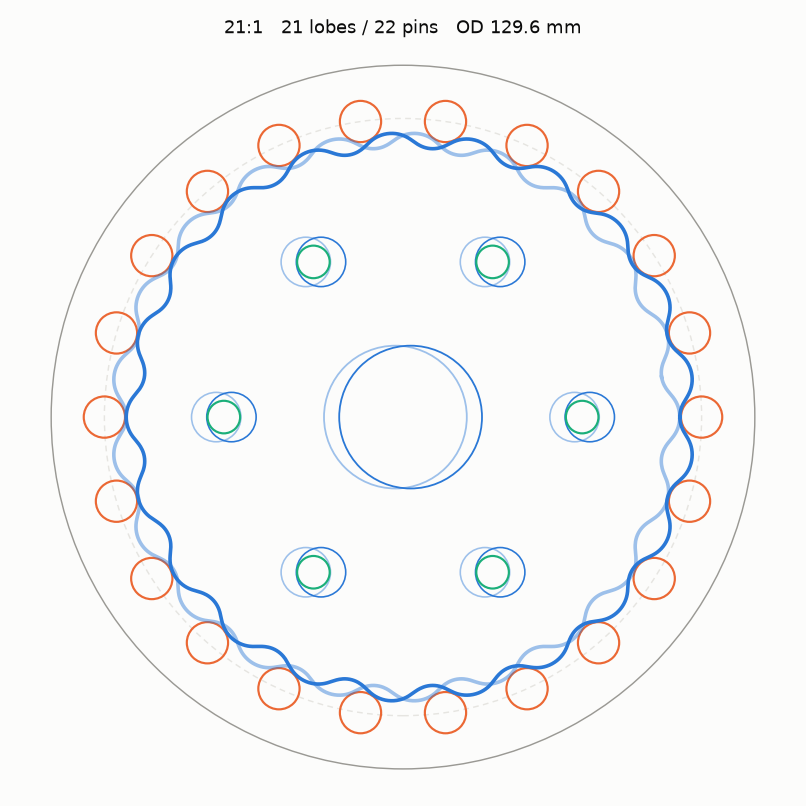
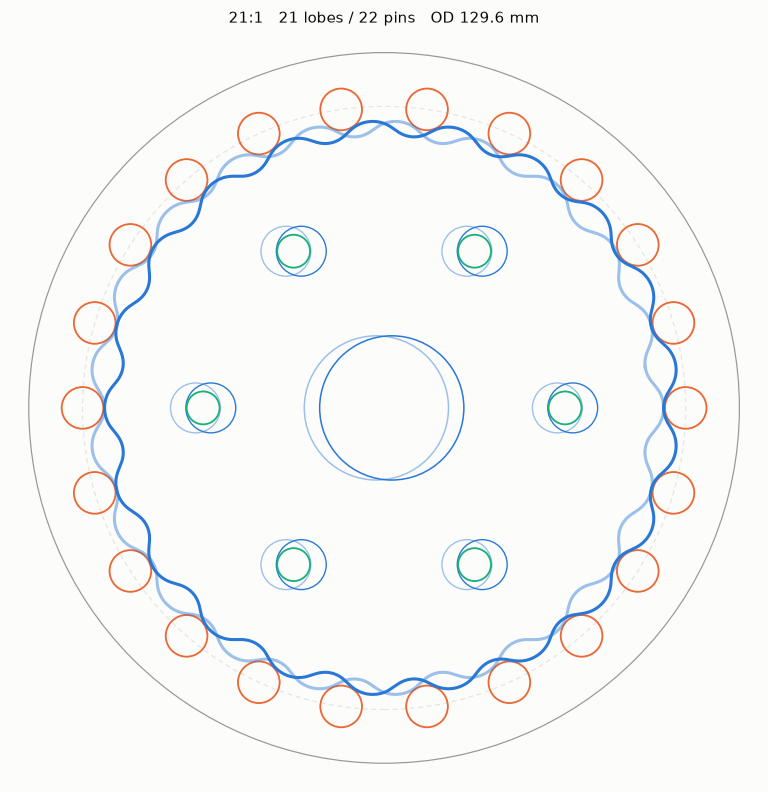
Add CI, reproducible README figures, and honest sweep axes
CI runs the suite on Linux and Windows across the supported Python range, and
separately exports a full bundle and runs a design search from the command
line - the tests cover the pieces, that job proves the whole thing still runs
end to end.

The README figures are now generated by docs/make_figures.py out of the same
plotting code the app and the PDF report use, so a figure in the README cannot
drift away from what the app actually draws.

Building the trade-study figure exposed a real fault in it: matplotlib fills
the axis with whatever range it is given, so lost motion varying by 0.09% over
the sweep arrived looking like a decisive downward trend. On a chart whose only
job is reading off trade-offs that is the chart stating something untrue.
Nearly-flat positive series are now anchored at zero, which is the discipline
force_figure already applied to ring pin load and documented the reason for.

diff --git a/tests/test_plots.py b/tests/test_plots.py
@@ -1,0 +1,96 @@
+"""Figures.
+
+Mostly about honesty rather than appearance: a chart that magnifies a tenth of
+a percent into a decisive-looking trend is telling the reader something untrue,
+and on a trade-study chart that is the whole point of the chart.
+"""
+from __future__ import annotations
+
+import matplotlib
+
+matplotlib.use("Agg")
+
+import numpy as np                                   # noqa: E402
+import pytest                                        # noqa: E402
+from matplotlib.figure import Figure                 # noqa: E402
+
+from cycloidgen.core.spec import preset               # noqa: E402
+from cycloidgen.design.sweep import sweep_parameter   # noqa: E402
+from cycloidgen.report import plots                   # noqa: E402
+
+
+def test_a_nearly_flat_series_is_anchored_at_zero():
+    fig = Figure()
+    ax = fig.add_subplot(111)
+    y = np.array([10.206, 10.210, 10.215])            # a 0.09 % span
+    ax.plot([1, 2, 3], y)
+    plots._anchor_axis(ax, y)
+    assert ax.get_ylim()[0] == 0.0
+
+
+def test_a_series_that_really_moves_keeps_its_own_range():
+    fig = Figure()
+    ax = fig.add_subplot(111)
+    y = np.array([10.0, 60.0, 115.0])
+    ax.plot([1, 2, 3], y)
+    plots._anchor_axis(ax, y)
+    assert ax.get_ylim()[0] > 0.0
+
+
+def test_a_series_crossing_zero_is_left_alone():
+    """Anchoring assumes a magnitude; a signed quantity is not one."""
+    fig = Figure()
+    ax = fig.add_subplot(111)
+    y = np.array([-5.0, 0.0, 5.0])
+    ax.plot([1, 2, 3], y)
+    before = ax.get_ylim()
+    plots._anchor_axis(ax, y)
+    assert ax.get_ylim() == before
+
+
+def test_the_force_figure_y_axis_starts_at_zero():
+    """Ring pin load varies by a fraction of a percent over the mesh cycle."""
+    fig = plots.force_figure(preset(15), Figure(), steps=24)
+    assert fig.axes[0].get_ylim()[0] == 0.0
+
+
+def test_sweep_figure_draws_four_panels_and_marks_the_current_design():
+    spec = preset(15)
+    result = sweep_parameter(spec, "pin_radius", np.linspace(3.0, 5.0, 5))
+    fig = plots.sweep_figure(result, Figure())
+    assert len(fig.axes) == 4
+    for ax in fig.axes:
+        assert ax.get_xlabel()
+        assert ax.get_ylabel()
+
+
+def test_sweep_figure_survives_a_range_where_everything_is_blocked():
+    """The shaded-blocked path must not depend on there being good points."""
+    result = sweep_parameter(preset(15), "pin_radius", [40.0, 60.0])
+    assert all(not p.ok for p in result.points)
+    fig = plots.sweep_figure(result, Figure())
+    assert len(fig.axes) == 4
+
+
+def test_profile_figure_can_draw_a_reference_underneath():
+    a, b = preset(15), preset(29)
+    fig = plots.profile_figure(a, Figure(), crank_deg=20.0, reference=b)
+    ax = fig.axes[0]
+    # the ghost outline is an extra line beyond the discs of the live design
+    assert len(ax.lines) >= a.disc_count + 1
+    limit = ax.get_xlim()[1]
+    assert limit >= b.housing_outer_radius     # the frame must fit both
+
+
+def test_themes_round_trip():
+    plots.set_theme("dark")
+    assert plots.theme()["surface"] == "#1a1a19"
+    with plots.light_theme():
+        assert plots.theme()["surface"] == "#fcfcfb"
+    assert plots.theme()["surface"] == "#1a1a19"    # restored
+    plots.set_theme("light")
+
+
+def test_an_unknown_theme_is_refused():
+    with pytest.raises(ValueError):
+        plots.set_theme("neon")

diff --git a/docs/make_figures.py b/docs/make_figures.py
@@ -1,0 +1,67 @@
+"""Regenerate the figures the README embeds.
+
+    python docs/make_figures.py
+
+These come straight out of the same plotting code the application and the PDF
+report use, so a figure in the README cannot drift away from what the app
+actually draws.  Run it after changing anything in ``cycloidgen.report.plots``.
+"""
+from __future__ import annotations
+
+import sys
+from pathlib import Path
+
+import matplotlib
+
+matplotlib.use("Agg")
+
+import numpy as np                                          # noqa: E402
+from matplotlib.figure import Figure                        # noqa: E402
+
+from cycloidgen.core.spec import GearSpec, Process, preset  # noqa: E402
+from cycloidgen.design.sweep import sweep_parameter         # noqa: E402
+from cycloidgen.report import plots                         # noqa: E402
+
+DOCS = Path(__file__).resolve().parent
+
+
+def _hero() -> GearSpec:
+    """A machined steel drive - a design the app would actually pass."""
+    s = preset(21)
+    s.process = Process.CNC
+    s.apply_process_defaults()
+    s.disc_material = "Steel 4140 (hardened)"
+    s.pin_material = "Bearing steel 100Cr6"
+    s.housing_material = "Aluminium 7075-T6"
+    s.ring_pins_are_rollers = True
+    s.output_pins_are_rollers = True
+    s.output_torque_Nm = 25.0
+    return s
+
+
+def _save(fig: Figure, name: str) -> None:
+    path = DOCS / name
+    fig.savefig(path, dpi=110, facecolor=fig.get_facecolor(), bbox_inches="tight")
+    print(f"  {path.name}  {path.stat().st_size / 1024:.0f} kB")
+
+
+def main() -> int:
+    plots.set_theme("light")                     # a README is a print surface
+    print("writing figures:")
+
+    spec = preset(21)
+    _save(plots.profile_figure(spec, Figure(figsize=(7.3, 7.3), dpi=110)),
+          "drawing.png")
+
+    # The trade study: one parameter moved, four consequences reported. Pin
+    # radius is the clearest example - it has a genuine interior optimum rather
+    # than a monotone trend, which is the whole reason the tab exists.
+    hero = _hero()
+    result = sweep_parameter(hero, "pin_radius", np.linspace(1.6, 6.4, 25))
+    _save(plots.sweep_figure(result, Figure(figsize=(9.0, 6.2), dpi=110)),
+          "tradestudy.png")
+    return 0
+
+
+if __name__ == "__main__":
+    raise SystemExit(main())

diff --git a/cycloidgen/report/plots.py b/cycloidgen/report/plots.py
@@ -241,6 +241,7 @@ def sweep_figure(result, fig: Figure | None = None) -> Figure:
             ax.plot(x, y, color=t["series"][0], linewidth=1.8, zorder=3)
             ax.plot([result.current], [np.interp(result.current, x, y)],
                     marker="o", markersize=5, color=t["series"][1], zorder=4)
+            _anchor_axis(ax, y)
         for v in blocked:
             ax.axvspan(v - _half_step(result), v + _half_step(result),
                        color=t["muted"], alpha=0.18, linewidth=0, zorder=1)
@@ -263,6 +264,30 @@ def _half_step(result) -> float:
     if len(values) < 2:
         return 0.5
     return abs(values[1] - values[0]) / 2.0
+
+
+#: Below this relative span, a metric is treated as flat and its axis is
+#: anchored at zero.
+_FLAT_FRACTION = 0.10
+
+
+def _anchor_axis(ax, y: np.ndarray) -> None:
+    """Start a nearly-flat series at zero instead of magnifying its noise.
+
+    Matplotlib's default is to fill the axis with whatever range it is given, so
+    a quantity that moves by a tenth of a percent across the sweep arrives
+    looking like a decisive trend.  On a chart whose entire purpose is reading
+    off trade-offs, that is not a cosmetic problem - it is the chart telling the
+    reader something untrue.  ``force_figure`` already refuses to do it; so does
+    this.
+    """
+    if not len(y) or not np.all(np.isfinite(y)):
+        return
+    lo, hi = float(np.min(y)), float(np.max(y))
+    if lo < 0 or hi <= 0:
+        return
+    if (hi - lo) / hi < _FLAT_FRACTION:
+        ax.set_ylim(0.0, hi * 1.15)
 
 
 def loss_figure(analysis, fig: Figure | None = None) -> Figure:

diff --git a/README.md b/README.md
@@ -1,5 +1,9 @@
 # cycloidgen
 
+[![tests](https://github.com/medinstech/cycloidgen/actions/workflows/tests.yml/badge.svg)](https://github.com/medinstech/cycloidgen/actions/workflows/tests.yml)
+[![license](https://img.shields.io/badge/license-Apache--2.0-blue.svg)](LICENSE)
+[![python](https://img.shields.io/badge/python-3.10%20%E2%80%93%203.12-blue.svg)](pyproject.toml)
+
 Parametric cycloidal drive (cycloidal gearbox) generator: a desktop app that
 takes a handful of parameters — or a set of requirements — draws the drive live,
 checks it, sizes it, and writes DXF, SVG, STEP, STL, a bill of materials and a
@@ -194,6 +198,15 @@ suggests it.
 - **Trade study** — sweep any one parameter and watch torque capacity,
   efficiency, lost motion and mass move together, on their own real units, with
   the infeasible band shaded rather than silently dropped.
+
+  ![trade study](docs/tradestudy.png)
+
+  Read off that chart: pin radius buys torque capacity up to a genuine optimum
+  and then gives it back — the `PIN_RADIUS_SUGGESTION` check in closed form —
+  while costing mass the whole way and doing essentially nothing for efficiency
+  or backlash. Note the flat panels start at zero. A quantity that moves by a
+  tenth of a percent gets an axis that says so, rather than one scaled to make
+  the noise look like a decision.
 - **Compare** — pin a design, change things, and see exactly what moved and by
   how much. Running the optimiser pins the design it replaced automatically.
 - **Log** — everything the app would otherwise print to a terminal you do not
@@ -233,7 +246,7 @@ cycloidgen/
 ├── report/     plots (shared by UI and PDF), build
 └── ui/         PySide6 window, declarative field table, optimiser dialog,
                 trade-study tab, undo/redo history, log panel
-tests/          210 tests; the envelope, pin-in-hole and clearance-sign tests
+tests/          219 tests; the envelope, pin-in-hole and clearance-sign tests
                 matter most
 ```
 
@@ -243,9 +256,21 @@ tests/          210 tests; the envelope, pin-in-hole and clearance-sign tests
 .venv\Scripts\python -m pytest -q
 ```
 
-210 tests, about 70 s. Most of that is CadQuery writing solids; the pure
+219 tests, about 70 s. Most of that is CadQuery writing solids; the pure
 analysis tests run in under a second. The log-panel tests need Qt and run
 headless (`QT_QPA_PLATFORM=offscreen`, set by the test module itself).
+
+CI runs the suite on Linux and Windows, on the oldest and newest supported
+Python, and separately exports a full bundle and runs a design search from the
+command line — the tests cover the pieces, that job proves the whole thing still
+runs end to end.
+
+The README figures come out of the same plotting code the app and the PDF use,
+so they cannot drift from what it actually draws:
+
+```bash
+.venv\Scripts\python docs\make_figures.py
+```
 
 ## Performance
 
